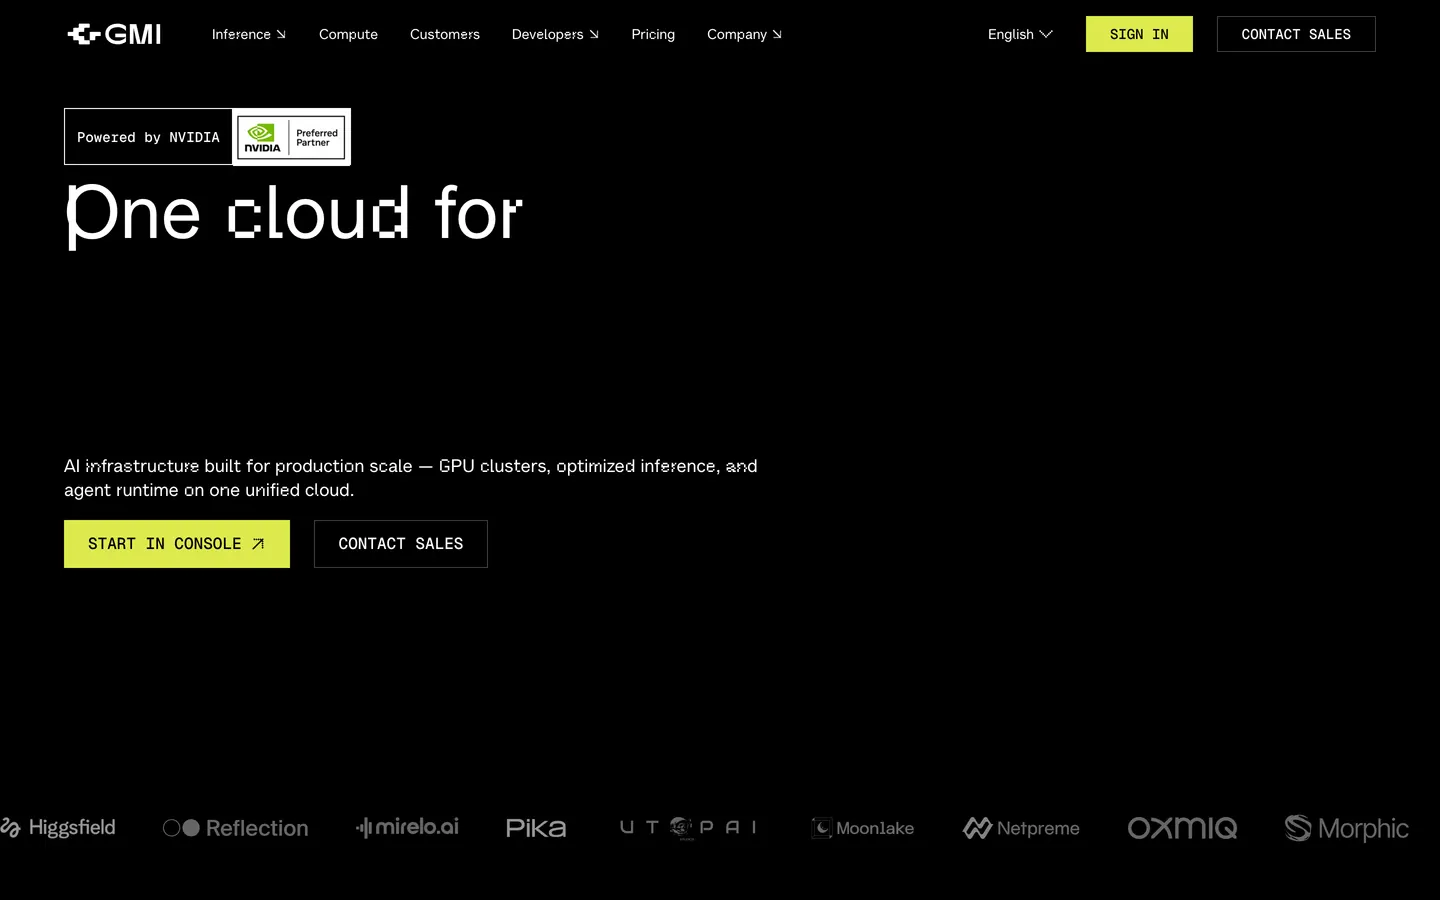
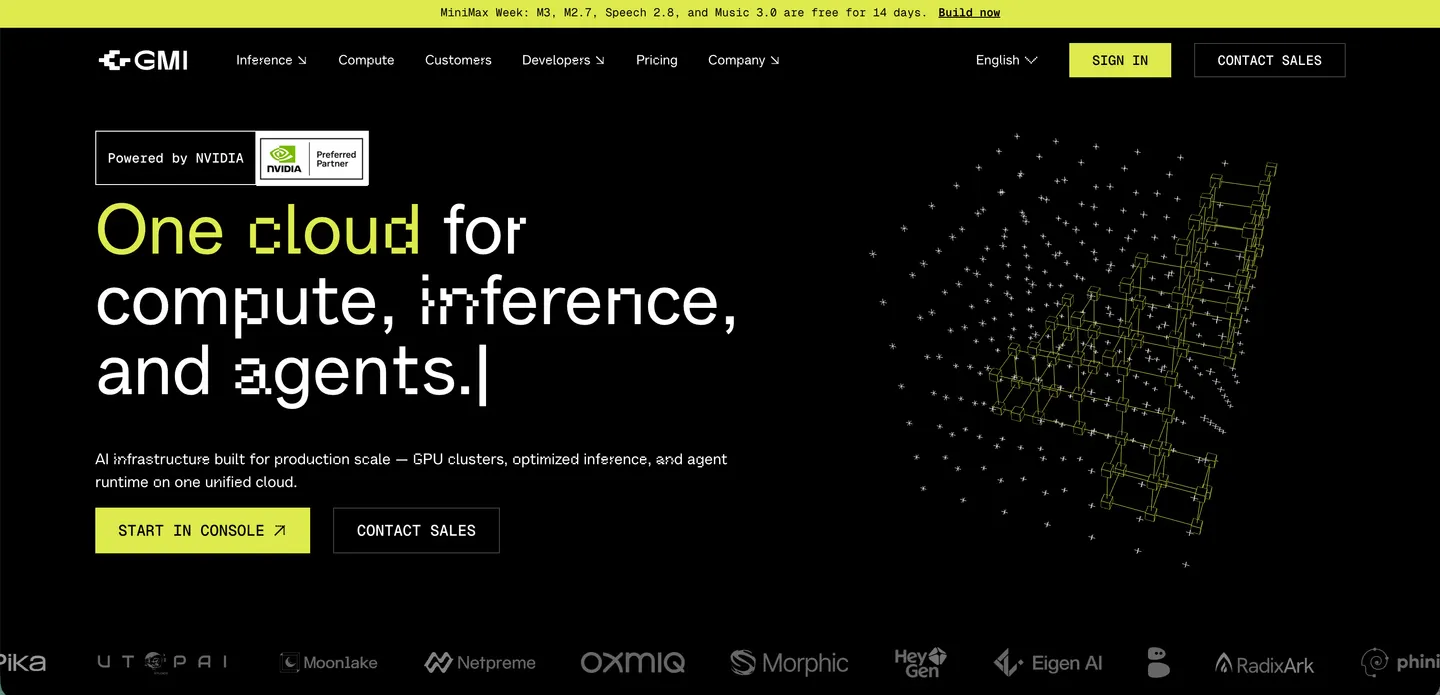
modified gmi cloud

diff --git a/README.md b/README.md
@@ -104,7 +104,7 @@ _Rent the machines that training and inference run on._
 - **Updated:** 2026-08-29
 
 ### [GMI Cloud](https://www.gmicloud.ai/)
-- **Headline:** One cloud for
+- **Headline:** One cloud for compute, inference, and agents.
 - **Sub-headline:** AI infrastructure built for production scale — GPU clusters, optimized inference, and agent runtime on one unified cloud.
 - **Updated:** 2026-08-30
 
